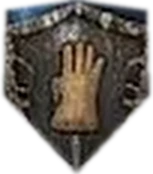
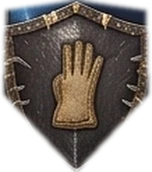
Arcane: artes em alta, enfeites e efeitos animados
Artes recortadas da maquete em alta, escudos e leão/lobo nos cantos da
ficha, leão na placa de Poder. js/arcane-efeitos.js (só no tema Arcane):
faíscas douradas no nome, pó arcano no retrato e na mochila, tochas e velas
tremulando com brasas. Névoa arcana girando atrás do retrato e brilhos que
respiram devagar.

Claude-Session: https://claude.ai/code/session_01XDvPPPNtQtBtRrGTU1cwSw

diff --git a/js/arcane-efeitos.js b/js/arcane-efeitos.js
@@ -1,0 +1,167 @@
+// Efeitos animados da interface Arcane (Henri, nov/2026). Só carrega quando o tema é Arcane (jogar/index.html).
+// Uma tela (canvas) fixa por cima de tudo, sem receber cliques, desenha:
+//  - faíscas douradas em volta do nome do herói (.ficha .cabeca);
+//  - pó arcano verde/azul/roxo subindo em volta do retrato (.retrato-central) e da mochila (.pg-mochila);
+//  - o fogo das tochas e velas das paredes do castelo (fundo lateral) tremulando, com brasas subindo.
+// Não mexe no jogo: só lê a posição dos elementos. Para quando a aba está escondida ou o jogador pede menos movimento.
+(function () {
+  'use strict';
+  if (document.documentElement.getAttribute('data-interface') !== 'arcane') return;
+  if (window.matchMedia && matchMedia('(prefers-reduced-motion: reduce)').matches) return;
+
+  // Chamas nas artes das laterais (em % da imagem). lateral-esq: 148x1960; lateral-dir: 160x1960.
+  var CHAMAS = [
+    { lado: 'esq', x: 56.4, y: 76.8, tam: 1.6, tocha: true },
+    { lado: 'esq', x: 81.1, y: 40.9, tam: 0.9 },
+    { lado: 'dir', x: 16.0, y: 39.5, tam: 1.0 },
+    { lado: 'dir', x: 86.4, y: 82.8, tam: 0.9 },
+    { lado: 'dir', x: 71.8, y: 84.2, tam: 0.7 },
+  ];
+  var LARG = { esq: 148, dir: 160 }, ALT = 1960;
+
+  var cv, ctx, dpr = 1, W = 0, H = 0, parts = [], alvos = {}, ultimaBusca = 0, t0 = performance.now(), ultimo = t0;
+
+  function iniciar() {
+    cv = document.createElement('canvas');
+    cv.id = 'arcane-efeitos';
+    cv.setAttribute('aria-hidden', 'true');
+    cv.style.cssText = 'position:fixed;inset:0;width:100vw;height:100vh;pointer-events:none;z-index:6';
+    document.body.appendChild(cv);
+    ctx = cv.getContext('2d');
+    medir();
+    window.addEventListener('resize', medir);
+    requestAnimationFrame(quadro);
+  }
+  function medir() {
+    dpr = Math.min(window.devicePixelRatio || 1, 2);
+    W = window.innerWidth; H = window.innerHeight;
+    cv.width = Math.round(W * dpr); cv.height = Math.round(H * dpr);
+    ctx.setTransform(dpr, 0, 0, dpr, 0, 0);
+  }
+  function retangulo(sel) {
+    var el = document.querySelector(sel);
+    if (!el) return null;
+    var r = el.getBoundingClientRect();
+    if (!r.width || r.bottom < -50 || r.top > H + 50) return null;
+    return r;
+  }
+  function buscar(agora) {
+    if (agora - ultimaBusca < 200) return;
+    ultimaBusca = agora;
+    alvos.nome = retangulo('.ficha .cabeca');
+    alvos.retrato = retangulo('.retrato-central');
+    alvos.mochila = retangulo('.pg-mochila');
+    alvos.conteudo = retangulo('.conteudo .jogo') || retangulo('.conteudo');
+  }
+  var rnd = function (a, b) { return a + Math.random() * (b - a); };
+
+  // ---------- criação das partículas ----------
+  function faisca(r) {
+    // num ponto da borda do quadro do nome
+    var per = 2 * (r.width + r.height), d = Math.random() * per, x, y;
+    if (d < r.width) { x = r.left + d; y = r.top; }
+    else if (d < r.width + r.height) { x = r.right; y = r.top + d - r.width; }
+    else if (d < 2 * r.width + r.height) { x = r.right - (d - r.width - r.height); y = r.bottom; }
+    else { x = r.left; y = r.bottom - (d - 2 * r.width - r.height); }
+    parts.push({ tipo: 'faisca', x: x + rnd(-4, 4), y: y + rnd(-4, 4), vx: rnd(-6, 6), vy: rnd(-14, -2), vida: 0, max: rnd(.7, 1.6), tam: rnd(1.2, 3.2) });
+  }
+  var CORES_PO = { verde: [74, 222, 128], azul: [96, 165, 250], roxo: [192, 132, 252] };
+  function po(r, onde) {
+    var cx = r.left + r.width / 2, cy = r.top + r.height / 2, a = Math.random() * Math.PI * 2;
+    var rx = r.width * rnd(.5, .75), ry = r.height * rnd(.5, .7), x = cx + Math.cos(a) * rx, y = cy + Math.sin(a) * ry;
+    var cor = onde === 'mochila' ? CORES_PO.roxo : x < cx - r.width * .15 ? CORES_PO.verde : y > cy + r.height * .2 && x > cx ? CORES_PO.roxo : CORES_PO.azul;
+    parts.push({ tipo: 'po', x: x, y: y, vx: rnd(-5, 5), vy: rnd(-18, -6), fase: rnd(0, 6.28), vida: 0, max: rnd(2.2, 4.5), tam: rnd(1, 2.6), cor: cor });
+  }
+  function brasa(x, y, tam) {
+    parts.push({ tipo: 'brasa', x: x + rnd(-3, 3) * tam, y: y, vx: rnd(-6, 6), vy: rnd(-40, -18) * tam, fase: rnd(0, 6.28), vida: 0, max: rnd(.8, 1.8), tam: rnd(.8, 1.8) * tam });
+  }
+
+  // ---------- chamas das paredes ----------
+  function posChama(c) {
+    var w = LARG[c.lado] / ALT * H;
+    var x = c.lado === 'esq' ? c.x / 100 * w : W - w + c.x / 100 * w;
+    return { x: x, y: c.y / 100 * H, esc: H / ALT * 6 };
+  }
+  function desenharChamas(t, dt) {
+    var r = alvos.conteudo;
+    CHAMAS.forEach(function (c, i) {
+      var p = posChama(c);
+      if (r && p.x > r.left - 10 && p.x < r.right + 10) return;   // atrás dos painéis: não desenha
+      var tremor = .75 + .25 * Math.sin(t * 9.1 + i * 2) * Math.sin(t * 5.3 + i) + .12 * Math.sin(t * 23 + i * 5);
+      var raio = (c.tocha ? 46 : 26) * c.tam * p.esc / 6 * tremor;
+      var g = ctx.createRadialGradient(p.x, p.y, 0, p.x, p.y, raio * 2.4);
+      g.addColorStop(0, 'rgba(255, 210, 120, ' + (.55 * tremor) + ')');
+      g.addColorStop(.25, 'rgba(255, 150, 50, ' + (.28 * tremor) + ')');
+      g.addColorStop(1, 'rgba(255, 110, 20, 0)');
+      ctx.fillStyle = g;
+      ctx.beginPath(); ctx.arc(p.x, p.y, raio * 2.4, 0, Math.PI * 2); ctx.fill();
+      // miolo da chama, mexendo
+      var nucleo = ctx.createRadialGradient(p.x, p.y - raio * .15, 0, p.x, p.y, raio * .55);
+      nucleo.addColorStop(0, 'rgba(255, 250, 220, ' + (.7 * tremor) + ')');
+      nucleo.addColorStop(1, 'rgba(255, 190, 80, 0)');
+      ctx.fillStyle = nucleo;
+      ctx.beginPath(); ctx.ellipse(p.x + Math.sin(t * 7 + i) * 1.2, p.y - raio * .1, raio * .35, raio * .6, 0, 0, Math.PI * 2); ctx.fill();
+      if (c.tocha && Math.random() < dt * 9) brasa(p.x, p.y - raio * .3, c.tam * .8);
+      else if (!c.tocha && Math.random() < dt * 1.5) brasa(p.x, p.y - raio * .3, .5);
+    });
+  }
+
+  // ---------- desenho ----------
+  function estrela(x, y, s, a) {
+    ctx.globalAlpha = a;
+    var g = ctx.createRadialGradient(x, y, 0, x, y, s * 3);
+    g.addColorStop(0, 'rgba(255, 236, 170, 1)'); g.addColorStop(.35, 'rgba(255, 200, 90, .55)'); g.addColorStop(1, 'rgba(255, 180, 60, 0)');
+    ctx.fillStyle = g; ctx.beginPath(); ctx.arc(x, y, s * 3, 0, Math.PI * 2); ctx.fill();
+    ctx.fillStyle = 'rgba(255, 248, 220, 1)';
+    ctx.beginPath();   // brilho em cruz
+    ctx.moveTo(x, y - s * 2.6); ctx.lineTo(x + s * .35, y); ctx.lineTo(x, y + s * 2.6); ctx.lineTo(x - s * .35, y); ctx.closePath(); ctx.fill();
+    ctx.beginPath();
+    ctx.moveTo(x - s * 2.6, y); ctx.lineTo(x, y + s * .35); ctx.lineTo(x + s * 2.6, y); ctx.lineTo(x, y - s * .35); ctx.closePath(); ctx.fill();
+  }
+  function quadro(agora) {
+    requestAnimationFrame(quadro);
+    if (document.hidden) { ultimo = agora; return; }
+    var dt = Math.min(.05, (agora - ultimo) / 1000), t = (agora - t0) / 1000;
+    ultimo = agora;
+    buscar(agora);
+    ctx.clearRect(0, 0, W, H);
+    ctx.globalCompositeOperation = 'lighter';
+
+    if (alvos.nome && Math.random() < dt * 30) faisca(alvos.nome);
+    if (alvos.retrato && Math.random() < dt * 22) po(alvos.retrato, 'retrato');
+    if (alvos.mochila && Math.random() < dt * 5) {
+      var m = alvos.mochila;
+      po({ left: m.left + m.width * .55, top: m.top - 70, width: m.width * .45, height: 60 }, 'mochila');
+    }
+    desenharChamas(t, dt);
+
+    for (var i = parts.length - 1; i >= 0; i--) {
+      var p = parts[i];
+      p.vida += dt;
+      if (p.vida >= p.max) { parts.splice(i, 1); continue; }
+      var k = p.vida / p.max, a = Math.sin(Math.PI * k);
+      if (p.tipo === 'faisca') {
+        p.x += p.vx * dt; p.y += p.vy * dt;
+        estrela(p.x, p.y, p.tam * (.6 + .4 * Math.sin(k * Math.PI)), a * (.6 + .4 * Math.sin(t * 20 + i)));
+      } else if (p.tipo === 'po') {
+        p.x += (p.vx + Math.sin(t * 1.5 + p.fase) * 8) * dt; p.y += p.vy * dt;
+        var c = p.cor, g = ctx.createRadialGradient(p.x, p.y, 0, p.x, p.y, p.tam * 4);
+        ctx.globalAlpha = a * .9;
+        g.addColorStop(0, 'rgba(' + c[0] + ',' + c[1] + ',' + c[2] + ',1)');
+        g.addColorStop(.3, 'rgba(' + c[0] + ',' + c[1] + ',' + c[2] + ',.45)');
+        g.addColorStop(1, 'rgba(' + c[0] + ',' + c[1] + ',' + c[2] + ',0)');
+        ctx.fillStyle = g; ctx.beginPath(); ctx.arc(p.x, p.y, p.tam * 4, 0, Math.PI * 2); ctx.fill();
+      } else {
+        p.x += (p.vx + Math.sin(t * 6 + p.fase) * 10) * dt; p.y += p.vy * dt;
+        ctx.globalAlpha = a;
+        ctx.fillStyle = 'rgba(255, ' + Math.round(200 - 90 * k) + ', 60, 1)';
+        ctx.beginPath(); ctx.arc(p.x, p.y, p.tam, 0, Math.PI * 2); ctx.fill();
+      }
+    }
+    ctx.globalAlpha = 1;
+    if (parts.length > 400) parts.splice(0, parts.length - 400);
+  }
+
+  if (document.readyState === 'loading') document.addEventListener('DOMContentLoaded', iniciar);
+  else iniciar();
+})();

diff --git a/css/tema-arcane.css b/css/tema-arcane.css
@@ -425,8 +425,8 @@ html[data-interface="arcane"] .personagem-tela {
 html[data-interface="arcane"] .retrato-central { border: 0; box-shadow: none; overflow: visible; }
 html[data-interface="arcane"] .retrato-central::before {
   content: ""; position: absolute; z-index: 2; pointer-events: none; filter: none; animation: arcane-aura 6s ease-in-out infinite;
-  /* janela interna da moldura: 7% / 11% / 8,5% / 10,4% da imagem */
-  left: -8.4%; right: -10.2%; top: -13.6%; bottom: -12.8%; border-radius: 0;
+  /* janela interna da moldura: 8,6% / 12,3% / 10,2% / 11,6% da imagem (esq/topo/dir/baixo) */
+  left: -10.6%; right: -12.5%; top: -16.2%; bottom: -15.3%; border-radius: 0;
   background: url("../assets/interface/arcane/moldura-runas.webp") center / 100% 100% no-repeat;
 }
 html[data-interface="arcane"] .retrato-central::after { border-radius: 4px; }
@@ -467,3 +467,59 @@ html[data-interface="arcane"] .rodape {
 /* escudos por cima da moldura de runas (como na maquete) */
 html[data-interface="arcane"] .boneco .espaco { position: relative; z-index: 3; }
 html[data-interface="arcane"] .rodape { display: block; width: 100%; box-sizing: border-box; }
+
+/* ---------- 12. Enfeites dos cantos e brilhos lentos (artes da maquete em alta) ---------- */
+/* Escudos no alto da ficha, lobo e leão embaixo */
+html[data-interface="arcane"] .ficha { overflow: visible; }
+html[data-interface="arcane"] .ficha .cabeca { position: relative; }
+html[data-interface="arcane"] .ficha .cabeca::before, html[data-interface="arcane"] .ficha .cabeca::after {
+  content: ""; position: absolute; top: -44px; width: 46px; height: 60px; pointer-events: none; z-index: 2;
+  background: center / contain no-repeat; filter: drop-shadow(0 4px 5px rgba(0, 0, 0, .8));
+}
+html[data-interface="arcane"] .ficha .cabeca::before { left: -34px; background-image: url("../assets/interface/arcane/canto-escudo-esq.webp"); }
+html[data-interface="arcane"] .ficha .cabeca::after { right: -34px; background-image: url("../assets/interface/arcane/canto-escudo-dir.webp"); }
+html[data-interface="arcane"] .ficha .atividades { position: relative; }
+html[data-interface="arcane"] .ficha .atividades::before, html[data-interface="arcane"] .ficha .atividades::after {
+  content: ""; position: absolute; bottom: -62px; width: 48px; height: 54px; pointer-events: none; z-index: 2;
+  background: center / contain no-repeat; filter: drop-shadow(0 4px 5px rgba(0, 0, 0, .8));
+}
+html[data-interface="arcane"] .ficha .atividades::before { left: -40px; background-image: url("../assets/interface/arcane/canto-lobo.webp"); }
+html[data-interface="arcane"] .ficha .atividades::after { right: -40px; background-image: url("../assets/interface/arcane/canto-leao.webp"); }
+/* Leão dourado em cima da placa de Poder */
+html[data-interface="arcane"] .poder-destaque { margin-top: 2.1rem; overflow: visible; }
+html[data-interface="arcane"] .poder-ico::before {
+  content: ""; position: absolute; left: 50%; top: -34px; width: 40px; height: 40px; transform: translateX(-50%); pointer-events: none;
+  background: url("../assets/interface/arcane/brasao-leao.webp") center / contain no-repeat;
+  filter: drop-shadow(0 0 6px rgba(240, 190, 90, .55));
+}
+html[data-interface="arcane"] .poder-ico { position: relative; }
+/* Brilhos que respiram devagar: placa de Poder, quadro do nome e moldura de runas */
+html[data-interface="arcane"] .poder-destaque { animation: arcane-respira-ouro 4.5s ease-in-out infinite; }
+html[data-interface="arcane"] .ficha .cabeca { animation: arcane-respira-nome 3.2s ease-in-out infinite; }
+@keyframes arcane-respira-ouro {
+  0%, 100% { box-shadow: 0 0 0 1px #000, 0 0 0 3px #4a3a1e, inset 0 0 0 1px rgba(255, 230, 160, .35), inset 0 0 18px rgba(0, 0, 0, .6), 0 0 8px rgba(240, 190, 90, .15); }
+  50% { box-shadow: 0 0 0 1px #000, 0 0 0 3px #4a3a1e, inset 0 0 0 1px rgba(255, 230, 160, .55), inset 0 0 22px rgba(240, 190, 90, .18), 0 0 18px rgba(240, 190, 90, .45); }
+}
+@keyframes arcane-respira-nome {
+  0%, 100% { box-shadow: 0 0 12px rgba(240, 190, 90, .45), inset 0 0 16px rgba(240, 190, 90, .14); }
+  50% { box-shadow: 0 0 22px rgba(255, 205, 110, .8), inset 0 0 22px rgba(240, 190, 90, .28); }
+}
+@media (prefers-reduced-motion: reduce) {
+  html[data-interface="arcane"] .poder-destaque, html[data-interface="arcane"] .ficha .cabeca { animation: none; }
+}
+/* Névoa arcana atrás do retrato, girando devagar (verde à esquerda, azul à direita, roxo embaixo) */
+html[data-interface="arcane"] .personagem-tela { position: relative; isolation: isolate; }
+html[data-interface="arcane"] .personagem-tela::before {
+  content: ""; position: absolute; inset: -4% 30% -6% -4%; z-index: -1; pointer-events: none; border-radius: 40%;
+  background:
+    radial-gradient(ellipse 38% 45% at 22% 62%, rgba(34, 197, 94, .38), transparent 70%),
+    radial-gradient(ellipse 34% 42% at 80% 40%, rgba(59, 130, 246, .34), transparent 70%),
+    radial-gradient(ellipse 40% 30% at 78% 92%, rgba(168, 85, 247, .32), transparent 70%);
+  filter: blur(14px); animation: arcane-nevoa 14s ease-in-out infinite alternate;
+}
+@keyframes arcane-nevoa {
+  0% { transform: rotate(-4deg) scale(1); opacity: .8; }
+  50% { transform: rotate(3deg) scale(1.05); opacity: 1; }
+  100% { transform: rotate(-2deg) scale(.97); opacity: .85; }
+}
+@media (prefers-reduced-motion: reduce) { html[data-interface="arcane"] .personagem-tela::before { animation: none; } }

diff --git a/jogar/index.html b/jogar/index.html
@@ -30,7 +30,7 @@
       if (cel) { t = 'zealot'; document.documentElement.setAttribute('data-celular', ''); }
       document.documentElement.setAttribute('data-interface', t);
       if (t === 'zealot') document.write('<link rel="stylesheet" href="css/tema-sombrio-cores.css?v=122"><link rel="stylesheet" href="css/tema-sombrio.css?v=135">');
-      if (t === 'arcane') document.write('<link rel="stylesheet" href="css/tema-arcane.css?v=5">');   // Arcane (Henri, nov/2026): só no computador
+      if (t === 'arcane') document.write('<link rel="stylesheet" href="css/tema-arcane.css?v=7"><script src="js/arcane-efeitos.js?v=1"><\/script>');   // Arcane (Henri, nov/2026): só no computador
     })();
   </script>
   <link rel="stylesheet" href="css/celular.css?v=22">

diff --git a/ferramentas/artifact.html b/ferramentas/artifact.html
@@ -15,7 +15,7 @@
     if (cel) { t = 'zealot'; document.documentElement.setAttribute('data-celular', ''); }
     document.documentElement.setAttribute('data-interface', t);
     if (t === 'zealot') document.write('<link rel="stylesheet" href="css/tema-sombrio-cores.css?v=122"><link rel="stylesheet" href="css/tema-sombrio.css?v=135">');
-      if (t === 'arcane') document.write('<link rel="stylesheet" href="css/tema-arcane.css?v=5">');   // Arcane (Henri, nov/2026): só no computador
+      if (t === 'arcane') document.write('<link rel="stylesheet" href="css/tema-arcane.css?v=7"><script src="js/arcane-efeitos.js?v=1"><\/script>');   // Arcane (Henri, nov/2026): só no computador
   })();
 </script>
 <link rel="stylesheet" href="css/celular.css?v=22">

diff --git a/docs/notas-tecnicas.md b/docs/notas-tecnicas.md
@@ -900,3 +900,11 @@ gravar em `dados`, ela precisa manter/subir a `versao`.
   castelo nas laterais (`lateral-esq/dir`), torres no topo, escudos nos espaços vazios (`escudo-<espaço>`, via `--arcane-escudo`),
   moldura de runas no retrato (`moldura-runas`, em `.retrato-central::before`), brasão/castelo/dragão em cima da mochila e
   dragões no rodapé. Trocar pelas versões em alta do Gemini quando chegarem (mesmos nomes de arquivo).
+- Artes recortadas de novo da maquete em alta (1952x2174): escudos, laterais, topo, runas, brasão, dragões, enfeites dos
+  cantos da ficha (`canto-escudo-esq/dir`, `canto-lobo`, `canto-leao`) e leão da placa de Poder (`brasao-leao`).
+- **Efeitos animados** (`js/arcane-efeitos.js`, carregado só no tema Arcane junto com o CSS): um canvas fixo por cima
+  (sem cliques, `#arcane-efeitos`) desenha faíscas douradas em volta de `.ficha .cabeca`, pó arcano em volta de
+  `.retrato-central` e da mochila, e o fogo das tochas/velas das laterais (posições em `CHAMAS`, % da arte) com brasas.
+  Só lê posições (a cada 200 ms); para com a aba escondida e não roda com "reduzir movimento". No CSS: névoa girando atrás
+  do retrato e brilho que respira no quadro do nome e na placa de Poder.
+
